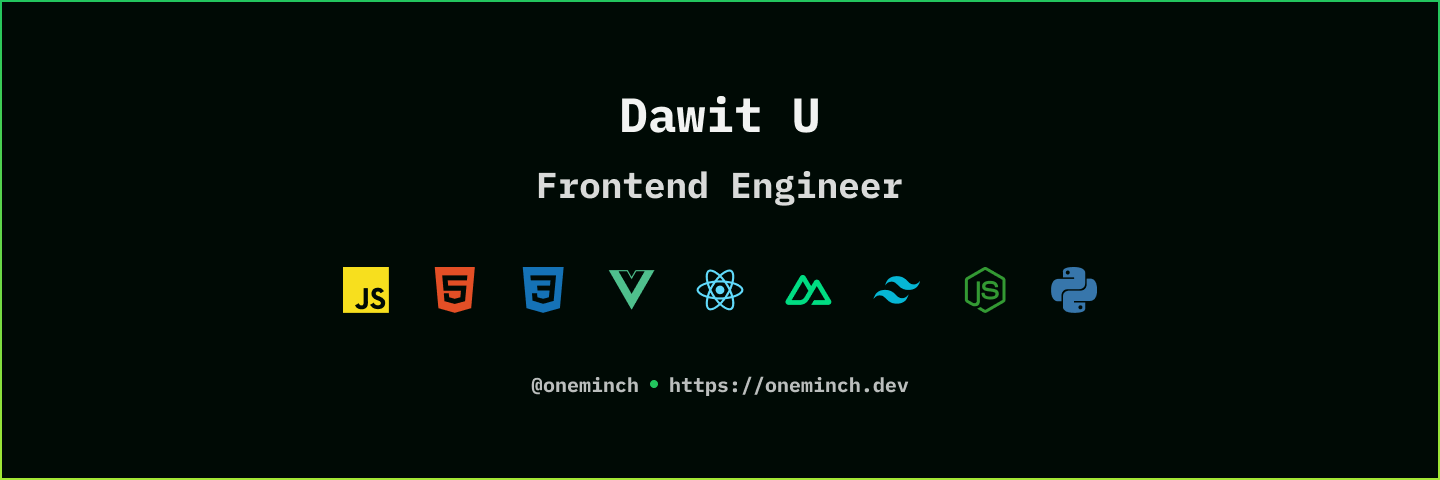
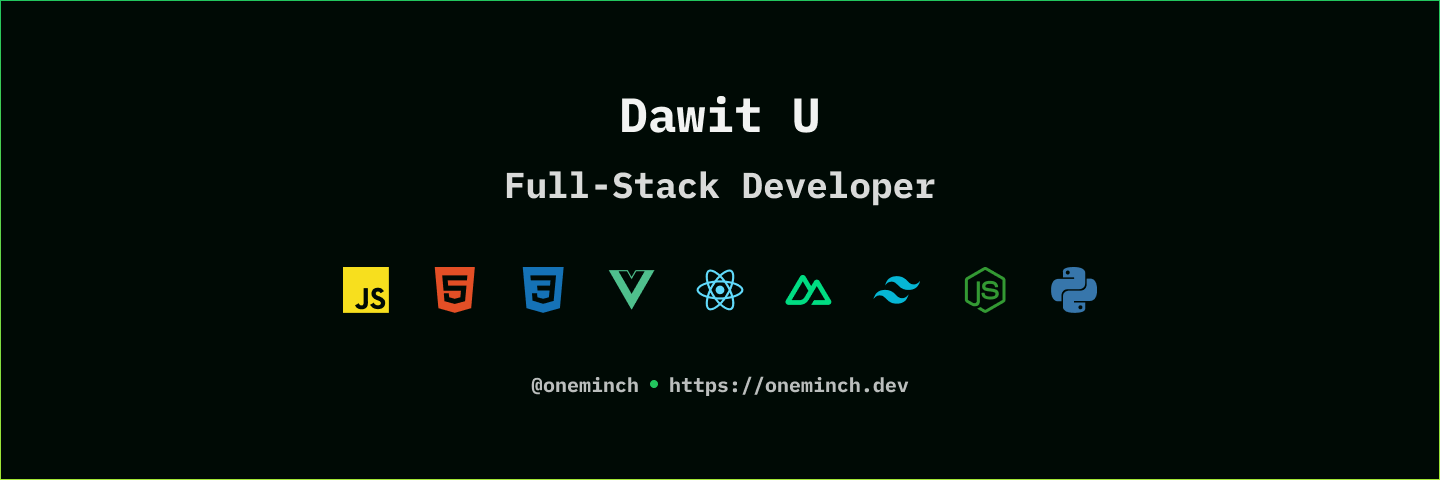
chore: bring skills up-to-date

Changed region(s): [[0.3438, 0.3438, 0.6562, 0.4375]]

diff --git a/README.md b/README.md
@@ -2,11 +2,11 @@
 
 ### Hi, I'm Dawit 👋
 
-#### **I craft delightful and accessible web interfaces...**
+#### **I craft delightful and accessible web apps...**
 
 My design-oriented approach ensures that every project I touch is as aesthetically pleasing as it is functional.
 
-Currently seeking opportunities to share my passion and expertise. 
+Currently seeking full-stack opportunities to share my passion and expertise. 
 
 Feel free to explore and connect...
 
@@ -28,19 +28,15 @@ Feel free to explore and connect...
 
 ## Skills 📐
 
-![My Skills](https://skillicons.dev/icons?i=js,html,css,react,vue,nuxt)
+![My Frontend Skills](https://skillicons.dev/icons?i=html,css,js,typescript,react,vue,nuxt,tailwind)
 
-![My Skills](https://skillicons.dev/icons?i=typescript,nodejs,python,flask,postgres)
+![My Backend Skills](https://skillicons.dev/icons?i=nodejs,express,postgres,prisma)
+
+![My Additional Skills](https://skillicons.dev/icons?i=aws,git,python,vitest)
 
 ## Second Brain 🧠
 
 Here is my repo of public notes - [[[ oneminch › notes ]]](https://github.com/oneminch/notes/)
-
----
-
-> "Strive not to be a success, but rather to be of value."
->
-> \- **Albert Einstein**
 
 ---
 
